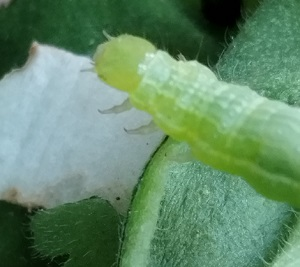
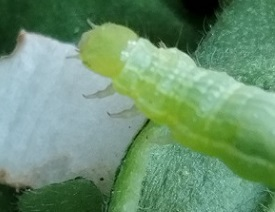
Modifications

diff --git a/index.html b/index.html
@@ -53,21 +53,21 @@
     <div id="wrapper">
         <div id="site">
             <table width="100%"><tr><td>
-            <table align="center" cellspacing="10" cellpadding="10" width="95%">
+            <table align="center" cellspacing="10" cellpadding="10" width="85%">
                 <tr><td align="center">https://fleursauvageyonne.github.io/</td></tr>
                 <tr><td align="center"><img title="FLSVY-et d'ailleurs" src="imag00/titrindex2.jpg"  width="452" height="163" />
                     <br /><font size="+2" style="font-family:Lucida Calligraphy;"><em>et d'ailleurs</em></font></td></tr>
 
                     <tr><td align="center" style="font-size:small;"><img src="imag01/pulicaria_dysenterica_2.jpg" width="212" height="226" title="Pulicaria dysenterica" /></a><br /><a href="flsv/jaune/pulicaria_dysenterica.htm"><em>Pulicaria dysenterica</em></a>, pulicaire dysentérique</td></tr>
 
-                <tr><td><span class="flsvy-font"><font color="#f400a0">FL</font>eurs <font color="#f400a0">S</font>au<font color="#f400a0">V</font>ages de l'<font color="#f400a0">Y</font>onne et d'ailleurs</span>, nommé plus couramment en abrégé <em>FLSVY</em>, est un modeste herbier, initialement icaunais c'est-à-dire de l'Yonne, un <a style="background-color:#fafce1;" href="https://fr.wikipedia.org/wiki/Yonne_(d%C3%A9partement)">département</a> français dont le chef-lieu est <a href="flsv/acc/yonne_2.htm#Auxerre">Auxerre</a> et dont vous pourriez suivre l'évolution du <a href="flsv/acc/yonne_2.htm#clim">climat de 2005 à 2026</a>.</td></tr>
+                <tr><td align="justify"><span class="flsvy-font"><font color="#f400a0">FL</font>eurs <font color="#f400a0">S</font>au<font color="#f400a0">V</font>ages de l'<font color="#f400a0">Y</font>onne et d'ailleurs</span>, nommé plus couramment en abrégé <em>FLSVY</em>, est un modeste herbier, initialement icaunais c'est-à-dire de l'Yonne, un <a style="background-color:#fafce1;" href="https://fr.wikipedia.org/wiki/Yonne_(d%C3%A9partement)">département</a> français dont le chef-lieu est <a href="flsv/acc/yonne_2.htm#Auxerre">Auxerre</a> et dont vous pourriez suivre l'évolution du <a href="flsv/acc/yonne_2.htm#clim">climat de 2005 à 2026</a>.</td></tr>
                 <tr><td align="center"><a href="flsv/acc/yonne_1.htm"><img src="imag10/yfr.jpg" width="110" height="115" title="L'Yonne en rouge - Clic !" /></a></td></tr>
-                <tr><td align="center">En plus d'être <a href="flsv/acc/yonne_2.htm#dept">un département</a>, l'Yonne est <a href="flsv/acc/yonne_2.htm#riv">une rivière</a> avec <a href="flsv/acc/yonne_4.htm#Lucy">ses affluents</a> aux vallées fleuries entre autres de nombreuses <a href="flsv/pftd/LI_pltinct.htm">plantes tinctoriales</a>.<br />Une occasion pour découvrir <a href="flsv/Lex/Lexi1_2.htm#tanin">les tannins</a>.</td></tr>
+                <tr><td align="justify">En plus d'être <a href="flsv/acc/yonne_2.htm#dept">un département</a>, l'Yonne est <a href="flsv/acc/yonne_2.htm#riv">une rivière</a> avec <a href="flsv/acc/yonne_4.htm#Lucy">ses affluents</a> aux vallées fleuries entre autres de nombreuses <a href="flsv/pftd/LI_pltinct.htm">plantes tinctoriales</a>.<br />Une occasion pour découvrir <a href="flsv/Lex/Lexi1_2.htm#tanin">les tannins</a>.</td></tr>
 
-                <tr><td align="center">Cet herbier a été imaginé en <strong>2005</strong> par <a href="flsv/acc/accueil00.htm">Claude Richard</a></td></tr><tr><td>botaniste amateur et randonneur, pour que <a href="flsv/Lex/Lexi1.htm#cml">les randonneurs</a> de tous âges, de tous lieux et de tous poils, <strong>botanistes amateurs débutants et curieux</strong> (ignorant tout de la phytosociologie, de la génétique végétale ou de l'horticulture) puissent découvrir, en cliquant sur une pastille colorée
+                <tr><td align="center">Cet herbier a été imaginé en <strong>2005</strong> par <a href="flsv/acc/accueil00.htm">Claude Richard</a></td></tr><tr><td align="justify">botaniste amateur et randonneur, pour que <a href="flsv/Lex/Lexi1.htm#cml">les randonneurs</a> de tous âges, de tous lieux et de tous poils, <strong>botanistes amateurs débutants et curieux</strong> (ignorant tout de la phytosociologie, de la génétique végétale ou de l'horticulture) puissent découvrir, en cliquant sur une pastille colorée
                  <p align="center"><a href="flsv/acc/menusmart.htm#couleurs"><img src="imag10/couleurs_f.jpg" width="63" height="57" title="Fleurs classées par couleurs. Clic !" /></a></p><p>une fleur, ses fruits, ses graines, ses racines et, pour <strong>éviter toute confusion</strong> avec une plante comestible,</p><p align="center"><img src="imag10/attention.gif" width="36" height="32" title="Plantes toxiques, allergisantes ou mortelles" />&#160;<img src="imag10/mortelle.jpg" width="29" height="32" title="Plantes toxiques, allergisantes ou mortelles" />&#160;<a style="color:red" href="flsv/var/LFtoxiques3.htm#ftxam">sa toxicité</a></p>
                  <p align="center">sans oublier <a href="flsv/apis/papillons.htm#chenilles">ses agresseurs</a> parfois surprenants</p>
-                 <p align="center" style="font-size:small;"><a href="flsv/apis/papillons.htm#chenilles"><img src="imag14/chrysodeixis_chalcites_1.jpg" width="300" height="267" title="Chenille de la plusie chalcite" /></a><br />Paris, 12 juillet 2026</p>
+                 <p align="center" style="font-size:small;"><a href="flsv/apis/papillons.htm#chenilles"><img src="imag14/chrysodeixis_chalcites_1.jpg" width="275" height="212" title="Chenille de la plusie chalcite" /></a><br />Paris, 12 juillet 2026</p>
 
                  <p align="center" style="font-size:small;"><a target="_blank" style="background-color:#fafce1;" href="https://www.youtube.com/watch?v=0KwFqv7G5K4"><img src="imag10/avcmskp.gif" width="25" height="24" title="La Bande à Basile - La chenille ">La Bande à Basile - La chenille</a></p>                
 
@@ -77,7 +77,8 @@
                toujours sans abandonner l'idée que <a href="flsv/acc/la_paix_est_une_fleur.htm">la paix est une fleur</a>
                    <p align="center" style="font-size:small;"><a target="_blank" style="background-color:#fafce1;" href="https://www.youtube.com/watch?v=1u8C6_fA594"><img src="imag10/avcmskp.gif" width="25" height="24" title="Peace Piece - Bill Evans">Peace Piece - Bill Evans (1929-1980)</a><br />Jouer le... <a href="https://www.gallimard.fr/catalogue/jouer-le-jeu/9782070704057">JAZZ</a></p></td></tr>          
             
-             <tr><td align="left">vous propose également<ul><li>de découvrir, dans <a href="flsv/Lex/Lexi1_2.htm#sols">les sols</a>, la vie cachée et la mort de tant d'espèces, vivantes ou qui le furent, sans lesquelles les fleurs ne pourraient exister, elles dont les <a href="flsv/Lex/Lexi1_0.htm#horloges">horloges circadiennes</a> sont différentes des nôtres ;</li><li>et de vous poser des questions comme celles-ci :<ul><li><a href="https://www.meteosuisse.admin.ch/portrait/meteosuisse-blog/fr/2023/05/wie-ist-die-atmosphaere-aufgebaut.html">Connaissez-vous les 5 couches de l'atmosphère&#160;?</a></a><li>les causes du réchauffement climatique ne se trouveraint-elles pas dans <strong>la pollution</strong> de la mésosphère dite <a style="background-color:#fafce1;" href="https://www.point2bascule.fr/post/pollution-spatiale-ignorosphere">ignorosphère</a>&#160;?</li><li>la pollution lumineuse générée par les <a style="background-color:#fafce1;" href="https://www.reddit.com/media?url=https%3A%2F%2Fpreview.redd.it%2Fla-pollution-du-ciel-li%25C3%25A9e-aux-satellites-v0-gp7oa3kcrych1.jpeg%3Fwidth%3D1080%26crop%3Dsmart%26auto%3Dwebp%26s%3Ddfb35b911c15b40c6eb9f190672c87d239d9f10c">constellations de satellites et de leurs débris</a> qui tournent autour de la Terre n'aurait-elle pas des répercussions sur la qualité de l'air et sur l'environnement, en perturbant les horloges biologiques des êtres vivants et les écosystèmes&#160;?</li></ul></li></ul><p align="center" style="font-size:small;"><a target="_blank" style="background-color:#fafce1;" href="https://www.youtube.com/watch?v=SGnv3H0rAmE&t=1200s"><img src="imag10/avcmskp.gif" width="25" height="24" title="Au delà des arbres">Odd Behavior - Au delà des arbres</a></p></td></tr>
+             <tr><td align="justify">vous propose également<ul><li>de découvrir, dans <a href="flsv/Lex/Lexi1_2.htm#sols">les sols</a>, la vie cachée et la mort de tant d'espèces, vivantes ou qui le furent, sans lesquelles les fleurs ne pourraient exister, elles dont les <a href="flsv/Lex/Lexi1_0.htm#horloges">horloges circadiennes</a> sont différentes des nôtres ;</li><li>et de vous poser des questions comme celles-ci :<ul><li><a href="https://www.meteosuisse.admin.ch/portrait/meteosuisse-blog/fr/2023/05/wie-ist-die-atmosphaere-aufgebaut.html">Connaissez-vous les 5 couches de l'atmosphère&#160;?</a></a><li>les causes du réchauffement climatique ne se trouveraint-elles pas dans <strong>la pollution</strong> de la mésosphère dite <a style="background-color:#fafce1;" href="https://www.point2bascule.fr/post/pollution-spatiale-ignorosphere">ignorosphère</a>&#160;?</li><li>la pollution lumineuse générée par les <a style="background-color:#fafce1;" href="https://www.reddit.com/media?url=https%3A%2F%2Fpreview.redd.it%2Fla-pollution-du-ciel-li%25C3%25A9e-aux-satellites-v0-gp7oa3kcrych1.jpeg%3Fwidth%3D1080%26crop%3Dsmart%26auto%3Dwebp%26s%3Ddfb35b911c15b40c6eb9f190672c87d239d9f10c">constellations de satellites et de leurs débris</a> qui tournent autour de la Terre n'aurait-elle pas des répercussions sur la qualité de l'air et sur l'environnement, en perturbant les horloges biologiques des êtres vivants et les écosystèmes&#160;?</li><li>Que savons-nous vraiment de la <a style="background-color:#fafce1;" href="https://fr.wikipedia.org/wiki/Thermodynamique">thermodynamique</a>&#160;?</li></ul></li></ul><p align="center" style="font-size:small;"><a target="_blank" style="background-color:#fafce1;" href="https://www.youtube.com/watch?v=SGnv3H0rAmE&t=1200s"><img src="imag10/avcmskp.gif" width="25" height="24" title="Au delà des arbres">Odd Behavior - Au delà des arbres</a></p>
+
              <tr><td align="center"><a class="button4" href="flsv/acc/bienvenue.htm" title="Entrez / Welcome / Bienvenidos / Välkommen / добро пожаловать / مَرْحَبا  / いらっしゃいませ / 欢迎"
         href="flsv/acc/bienvenue.htm">Bienvenue</a><br /><font size="3">Welcome / Bienvenidos / Välkommen / Benvenuto<br />добро пожаловать / مَرْحَبا / Chào mừng<br />いらっしゃいませ / 欢迎<br />pարի գալուստ</font></a><br /><img src="imag10/smtppz.jpg" width="100" height="46" title="smartphone à l'horizontal - pincer pour zoomer"></td></tr>
                 <tr><td align="center"><a title="Utilisation des cookies" href="flsv/acc/cookies.htm">►&#160;<img src="imag05/cookies/cookies.jpg" width="100" height="32" title="Cookies" /></a>&#160;&#160;<a style="background-color:#fafce1;"href="https://www.cnil.fr/fr/cookies-et-autres-traceurs/comment-se-proteger/maitriser-votre-navigateur">►&#160;<img src="imag05/cookies/cnil.jpg" width="85" height="32" title="Conseils de la CNIL" /></a></td></tr>